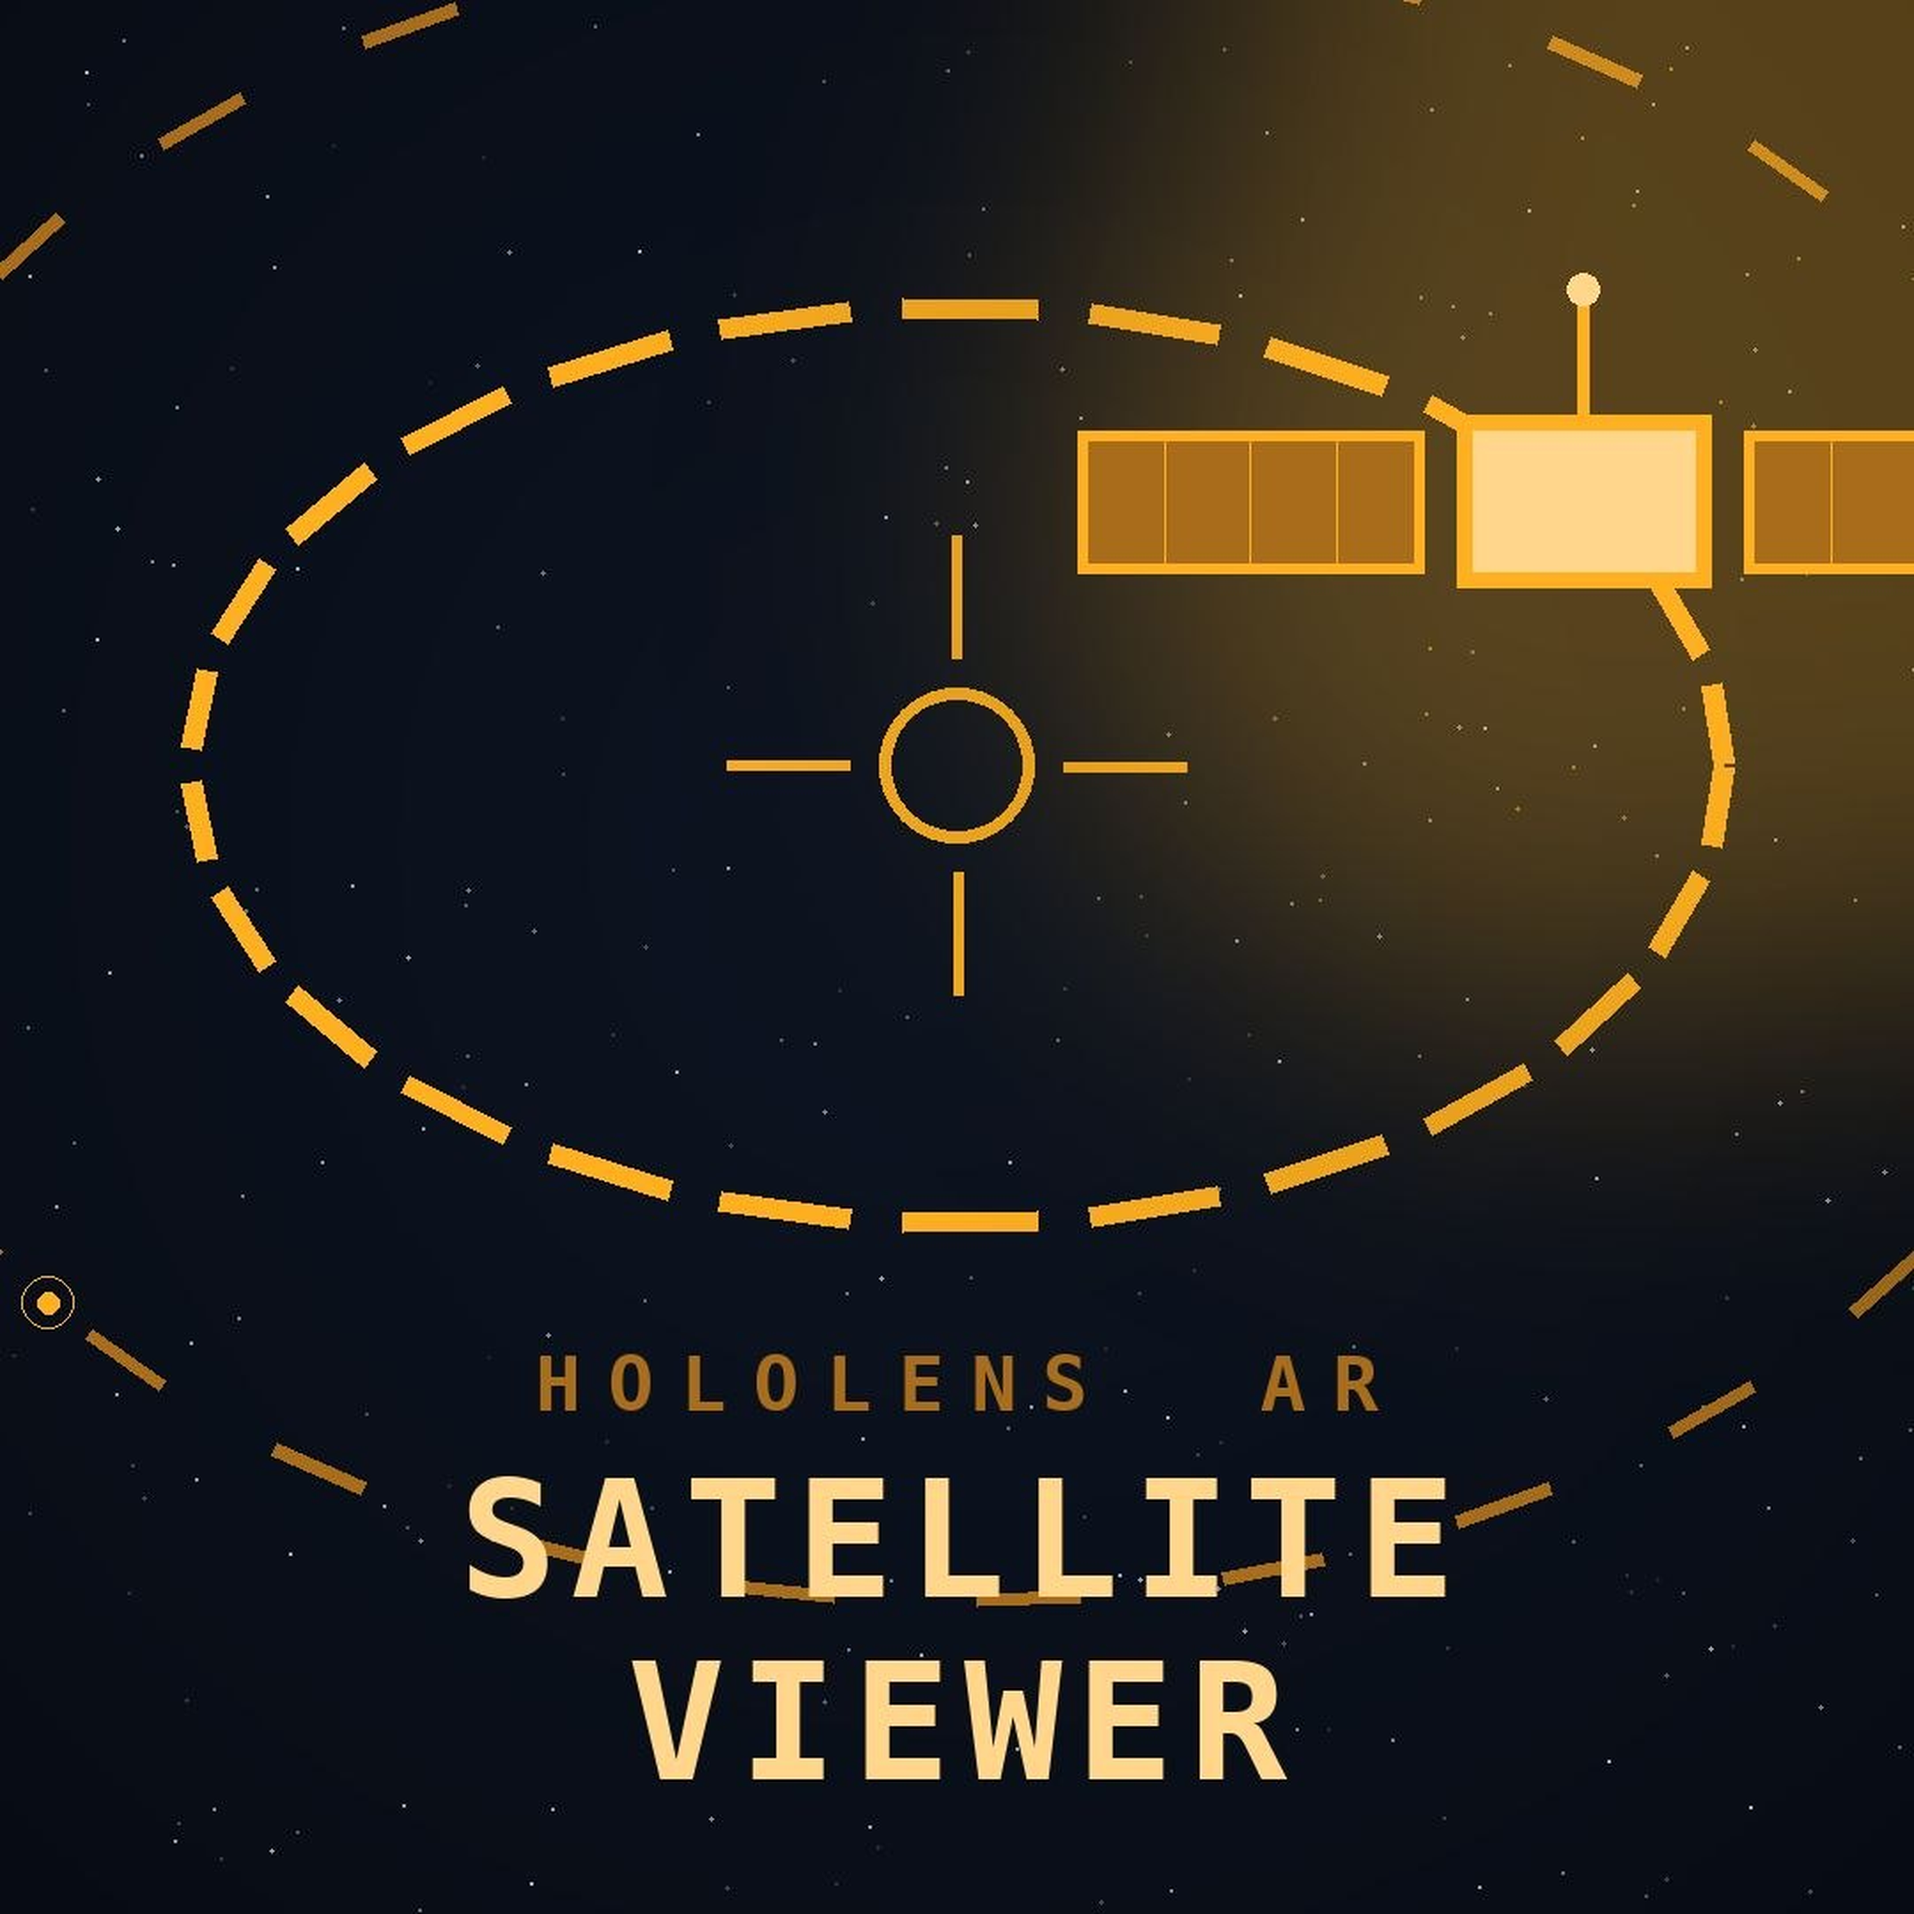
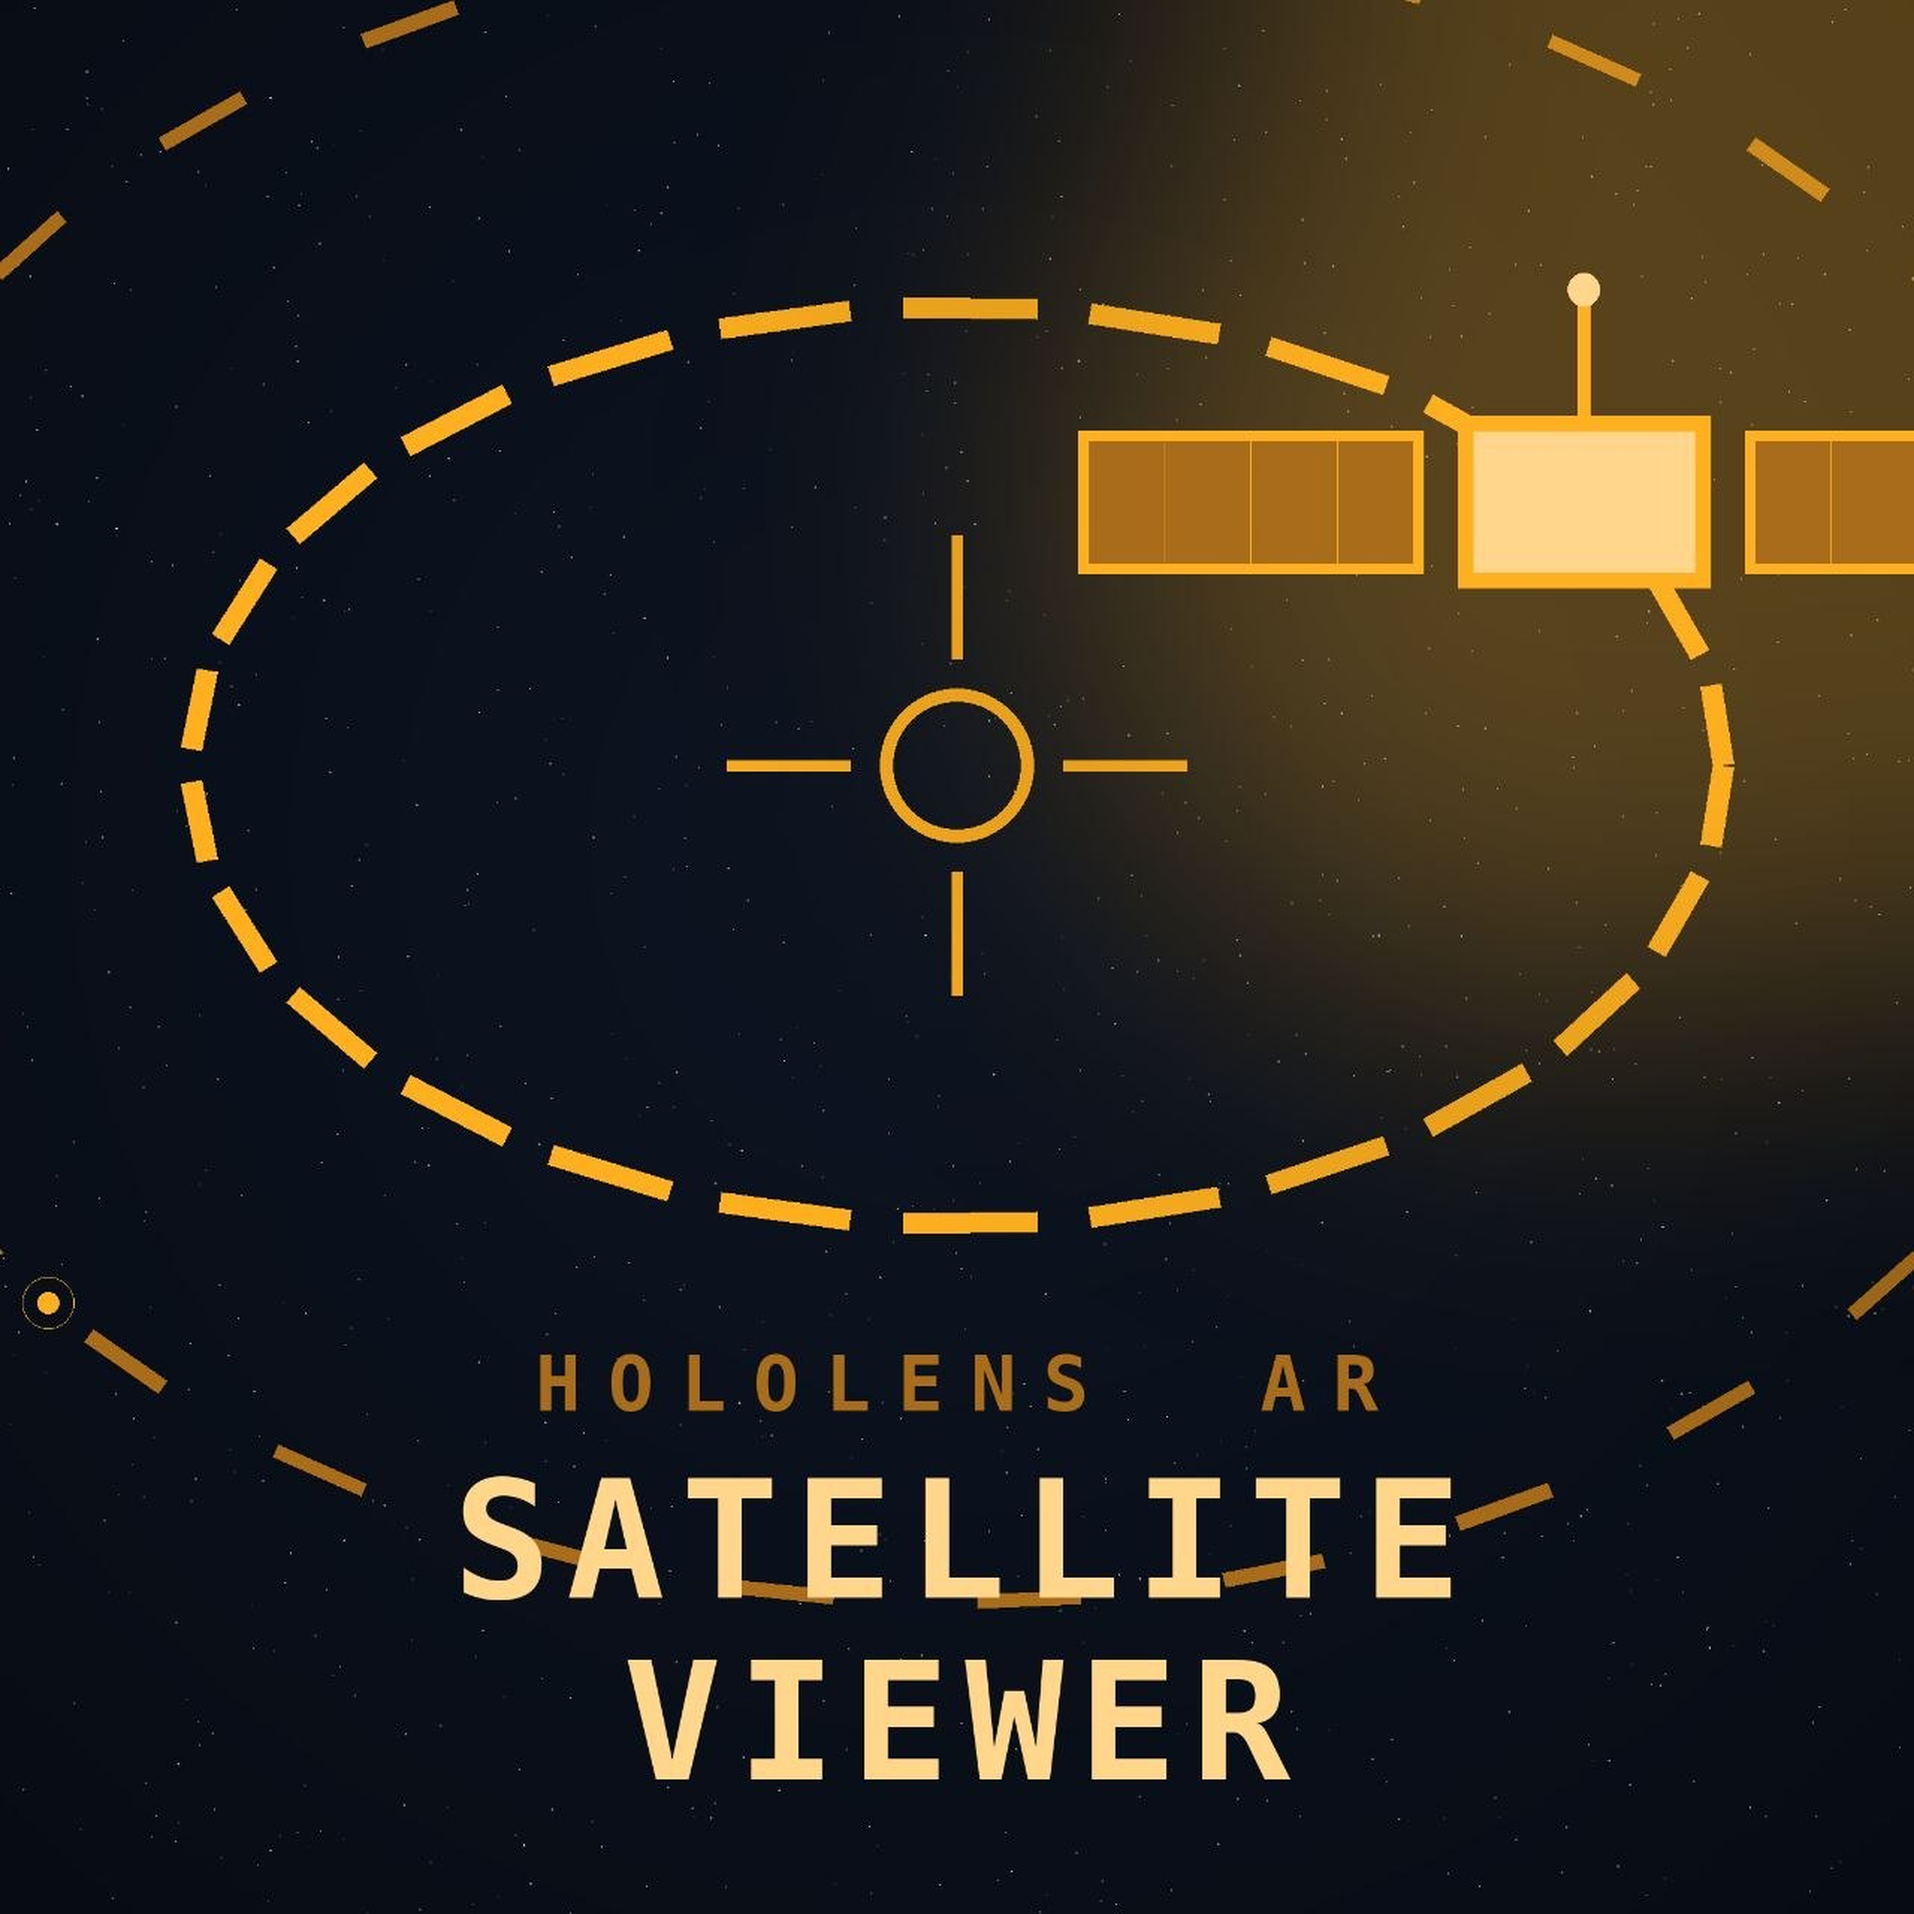
feat: regenerate store assets from dedicated artwork masters
- Box art 2160 now sourced from true 1280px master (was 1080 upscale)
- Posters use dedicated 9:16 portrait artwork (720 and 853 masters)
- Store tiles 150/71 use dedicated icon artwork variants
- make_assets.py supports per-family masters (icon/box/poster/tile)
- App icons and 1080 box unchanged (artwork identical to committed)

diff --git a/scripts/make_assets.py b/scripts/make_assets.py
@@ -2,15 +2,23 @@
 make_assets.py
 ==============
 Generates and repairs PNG assets required by Package.appxmanifest for the
-HoloLens 1 UWP app, using a master artwork image as the source.
+HoloLens 1 UWP app, using dedicated master artwork images as sources.
 
-The master image (`scripts/icon_master.jpg`) is the single source of truth
-for the app icon artwork. Every asset (44px through 1240px) is derived from
-it with LANCZOS resampling:
+Each asset family has its own master (single source of truth):
 
-- Square targets: direct resize of the master.
-- Wide targets (Wide310x150 / SplashScreen): center crop of the master to
-  the target aspect ratio (2.07:1) so the subject stays framed, then resize.
+- ``scripts/icon_master.jpg`` — square app-icon artwork (300x300). Every
+  square app icon (44px through 300px) and the wide/splash targets are
+  derived from it with LANCZOS resampling:
+  - Square targets: direct resize of the master.
+  - Wide targets (Wide310x150 / SplashScreen): center crop of the master to
+    the target aspect ratio (2.07:1) so the subject stays framed, then resize.
+- ``scripts/box_art_master_1080.jpg`` — square Microsoft Store box art
+  (1080x1080); the 2160x2160 box is upscaled from ``box_art_master_1280.jpg``.
+- ``scripts/poster_master_720.jpg`` / ``poster_master_853.jpg`` — portrait
+  9:16 poster artwork (720x1080 / 853x1280); the 1440x2160 poster is a
+  center-crop-to-9:16 then upscale of the 853 master.
+- ``scripts/icon_master_150.jpg`` / ``icon_master_100.jpg`` — smaller icon
+  artwork variants for the 150px / 71px Store tiles.
 
 Usage:
     python scripts/make_assets.py
@@ -19,7 +27,7 @@ Behavior:
 - Rewrites assets whose dimensions are wrong.
 - Generates both scale-200 names and common unscaled aliases.
 - Also regenerates the Microsoft Store listing images (StoreListing/) from
-  the same master.
+  the same masters.
 """
 
 import os
@@ -32,6 +40,12 @@ ASSETS_DIR = os.path.join(REPO_DIR, "Assets")
 STORE_DIR = os.path.join(REPO_DIR, "StoreListing")
 
 MASTER_PATH = os.path.join(SCRIPT_DIR, "icon_master.jpg")
+BOX_MASTER_1080 = os.path.join(SCRIPT_DIR, "box_art_master_1080.jpg")
+BOX_MASTER_1280 = os.path.join(SCRIPT_DIR, "box_art_master_1280.jpg")
+POSTER_MASTER_720 = os.path.join(SCRIPT_DIR, "poster_master_720.jpg")
+POSTER_MASTER_853 = os.path.join(SCRIPT_DIR, "poster_master_853.jpg")
+ICON_MASTER_150 = os.path.join(SCRIPT_DIR, "icon_master_150.jpg")
+ICON_MASTER_100 = os.path.join(SCRIPT_DIR, "icon_master_100.jpg")
 
 # ---------------------------------------------------------------------------
 # Helpers
@@ -77,61 +91,101 @@ WIDE_TARGETS = [
     ("SplashScreen.scale-200.png", 1240, 600),
 ]
 
-# Microsoft Store listing images (square boxes/tiles + 9:16 posters).
-STORE_TARGETS = [
+# Microsoft Store listing images — square boxes from the box-art masters.
+BOX_TARGETS = [
     ("1x1_Box_1080x1080.png", 1080, 1080),
     ("1x1_Box_2160x2160.png", 2160, 2160),
-    ("1x1_Tile_71x71.png", 71, 71),
-    ("1x1_Tile_150x150.png", 150, 150),
-    ("1x1_Tile_300x300.png", 300, 300),
+]
+
+# Microsoft Store listing images — 9:16 posters from the poster masters.
+POSTER_TARGETS = [
     ("9x16_Poster_720x1080.png", 720, 1080),
     ("9x16_Poster_1440x2160.png", 1440, 2160),
 ]
 
+# Microsoft Store listing images — small square tiles from the icon masters.
+TILE_TARGETS = [
+    ("1x1_Tile_71x71.png", 71, 71),
+    ("1x1_Tile_150x150.png", 150, 150),
+    ("1x1_Tile_300x300.png", 300, 300),
+]
+
 
 def main():
-    if not os.path.exists(MASTER_PATH):
-        raise FileNotFoundError(
-            f"Master artwork not found: {MASTER_PATH}\n"
-            "Place the app icon artwork at scripts/icon_master.jpg and re-run."
-        )
+    required = {
+        "MASTER_PATH": MASTER_PATH,
+        "BOX_MASTER_1080": BOX_MASTER_1080,
+        "BOX_MASTER_1280": BOX_MASTER_1280,
+        "POSTER_MASTER_720": POSTER_MASTER_720,
+        "POSTER_MASTER_853": POSTER_MASTER_853,
+    }
+    for name, path in required.items():
+        if not os.path.exists(path):
+            raise FileNotFoundError(f"Master artwork not found: {path} ({name})")
 
     master = Image.open(MASTER_PATH).convert("RGB")
-    print(f"Master artwork: {MASTER_PATH} ({master.size[0]}x{master.size[1]})")
+    box_1080 = Image.open(BOX_MASTER_1080).convert("RGB")
+    box_1280 = Image.open(BOX_MASTER_1280).convert("RGB")
+    poster_720 = Image.open(POSTER_MASTER_720).convert("RGB")
+    poster_853 = Image.open(POSTER_MASTER_853).convert("RGB")
+    icon_150 = Image.open(ICON_MASTER_150).convert("RGB") if os.path.exists(ICON_MASTER_150) else master
+    icon_100 = Image.open(ICON_MASTER_100).convert("RGB") if os.path.exists(ICON_MASTER_100) else master
+
+    print(f"App-icon master:      {MASTER_PATH} ({master.size[0]}x{master.size[1]})")
+    print(f"Box art master 1080:  {BOX_MASTER_1080} ({box_1080.size[0]}x{box_1080.size[1]})")
+    print(f"Box art master 1280:  {BOX_MASTER_1280} ({box_1280.size[0]}x{box_1280.size[1]})")
+    print(f"Poster master 720:    {POSTER_MASTER_720} ({poster_720.size[0]}x{poster_720.size[1]})")
+    print(f"Poster master 853:    {POSTER_MASTER_853} ({poster_853.size[0]}x{poster_853.size[1]})")
     print(f"Writing assets to: {ASSETS_DIR} and {STORE_DIR}\n")
 
     os.makedirs(ASSETS_DIR, exist_ok=True)
     os.makedirs(STORE_DIR, exist_ok=True)
 
-    # Square assets: direct resize.
+    # Square app icons: direct resize of the icon master.
     for filename, tw, th in SQUARE_TARGETS:
         out = downsample(master, (tw, th))
         out.save(os.path.join(ASSETS_DIR, filename))
         print(f"  Assets/{filename}  ({tw}x{th})")
 
-    # Wide assets: aspect-crop then resize.
+    # Wide app assets: aspect-crop the icon master, then resize.
     for filename, tw, th in WIDE_TARGETS:
         cropped = crop_wide(master, tw, th)
         out = downsample(cropped, (tw, th))
         out.save(os.path.join(ASSETS_DIR, filename))
         print(f"  Assets/{filename}  ({tw}x{th}, crop {cropped.size[0]}x{cropped.size[1]})")
 
-    # Store listing: reuse the same square/wide rendering.
-    for filename, tw, th in STORE_TARGETS:
-        if tw == th:
-            out = downsample(master, (tw, th))
-        else:
-            # 9:16 poster — portrait, crop the master vertically.
-            target_ar = tw / th  # 0.667
-            mw, mh = master.size
-            crop_w = int(round(mh * target_ar))
-            crop_w = min(crop_w, mw)
-            left = (mw - crop_w) // 2
-            box = (left, 0, left + crop_w, mh)
-            cropped = master.crop(box)
-            out = downsample(cropped, (tw, th))
+    # Store listing — box art from the box masters.
+    for filename, tw, th in BOX_TARGETS:
+        src = box_1080 if tw <= 1080 else box_1280
+        out = downsample(src, (tw, th))
         out.save(os.path.join(STORE_DIR, filename))
-        print(f"  StoreListing/{filename}  ({tw}x{th})")
+        print(f"  StoreListing/{filename}  ({tw}x{th}, from {src.size[0]}x{src.size[1]})")
+
+    # Store listing — portrait 9:16 posters (center-crop to 9:16, then resize).
+    for filename, tw, th in POSTER_TARGETS:
+        src = poster_720 if tw <= 720 else poster_853
+        sw, sh = src.size
+        target_ar = tw / th  # 0.667
+        crop_w = int(round(sh * target_ar))
+        crop_w = min(crop_w, sw)
+        left = (sw - crop_w) // 2
+        box = (left, 0, left + crop_w, sh)
+        cropped = src.crop(box)
+        out = downsample(cropped, (tw, th))
+        out.save(os.path.join(STORE_DIR, filename))
+        print(f"  StoreListing/{filename}  ({tw}x{th}, crop {cropped.size[0]}x{cropped.size[1]})")
+
+    # Store listing — small square tiles from the matching icon masters.
+    for filename, tw, th in TILE_TARGETS:
+        if tw == 150:
+            src = icon_150
+        elif tw <= 100:
+            src = icon_100
+        else:
+            src = master
+        out = downsample(src, (tw, th))
+        out.save(os.path.join(STORE_DIR, filename))
+        print(f"  StoreListing/{filename}  ({tw}x{th}, from {src.size[0]}x{src.size[1]})")
 
     print("\nDone.")
 
